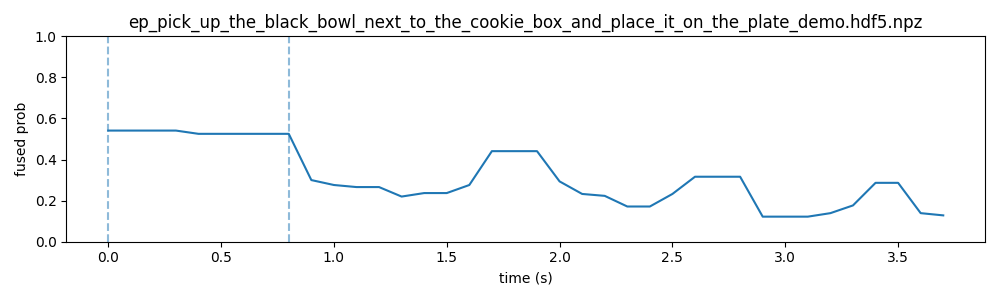
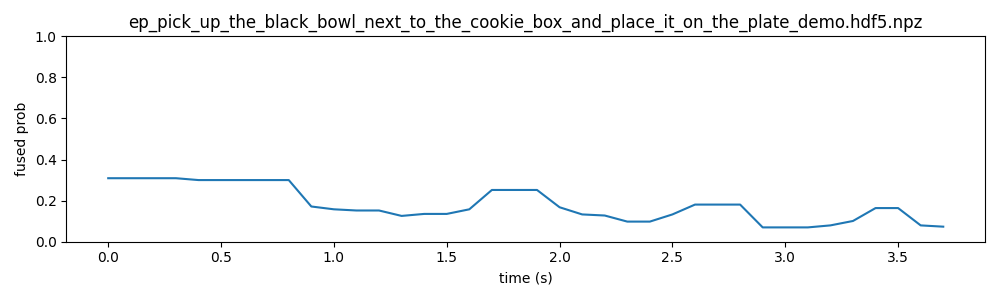
Fixed bugs, updated gebd runner

diff --git a/scripts/detect_events.py b/scripts/detect_events.py
@@ -61,13 +61,6 @@ def main():
         fusion_model.load_state_dict(ck["state_dict"]); fusion_model.eval()
 
     # inside per-episode loop, right after you have b (bocpd), e (error), and optional g (gebd):
-    if fusion_model is None:
-        p = fuse_simple(b_bocpd=b, e_raw=e, b_gebd=g, w_bocpd=args.w_bocpd, w_err=args.w_err, w_gebd=args.w_gebd)
-    else:
-        feats = [b, e] + ([g] if (g is not None) else [])
-        X = np.stack(feats, axis=1).astype("float32")  # [T,F]
-        with torch.no_grad():
-            p = fusion_model(torch.from_numpy(X)).numpy().astype("float32")
 
     # optional GEBD
     gebd = GebdRunner(
@@ -82,9 +75,11 @@ def main():
 
     nms_win = int(round(args.nms_win_sec * args.fps))
     min_dur = int(round(args.min_dur_sec * args.fps))
+    print("hey")
 
     for f in tqdm(feat_files, desc="detect_events"):
         base = os.path.splitext(os.path.basename(f))[0]          # ep_<...>
+        print(base, f)
         ep_id = base.replace("ep_", "")
 
         # load timestamps length from features (small array)
@@ -110,9 +105,13 @@ def main():
         if g is not None and len(g) != T:
             g = g[:T]
 
-        # fuse
-        p = fuse_simple(b_bocpd=b, e_raw=e, b_gebd=g,
-                        w_bocpd=args.w_bocpd, w_err=args.w_err, w_gebd=args.w_gebd)
+        if fusion_model is None:
+            p = fuse_simple(b_bocpd=b, e_raw=e, b_gebd=g, w_bocpd=args.w_bocpd, w_err=args.w_err, w_gebd=args.w_gebd)
+        else:
+            feats = [b, e] + ([g] if (g is not None) else [])
+            X = np.stack(feats, axis=1).astype("float32")  # [T,F]
+            with torch.no_grad():
+                p = fusion_model(torch.from_numpy(X)).numpy().astype("float32")
 
         # post-process
         p_s = smooth_prob(p, kind="median", window=args.smooth_window)

diff --git a/estlib/data/libero.py b/estlib/data/libero.py
@@ -244,6 +244,7 @@ class EpisodeReader:
         crop_to: Optional[Tuple[int, int]] = None,
         default_src_fps_for_images: float = 30.0
     ):
+        print(target_fps)
         self.target_fps = float(target_fps)
         self.resize_short = int(resize_short) if resize_short else 0
         self.crop_to = crop_to
